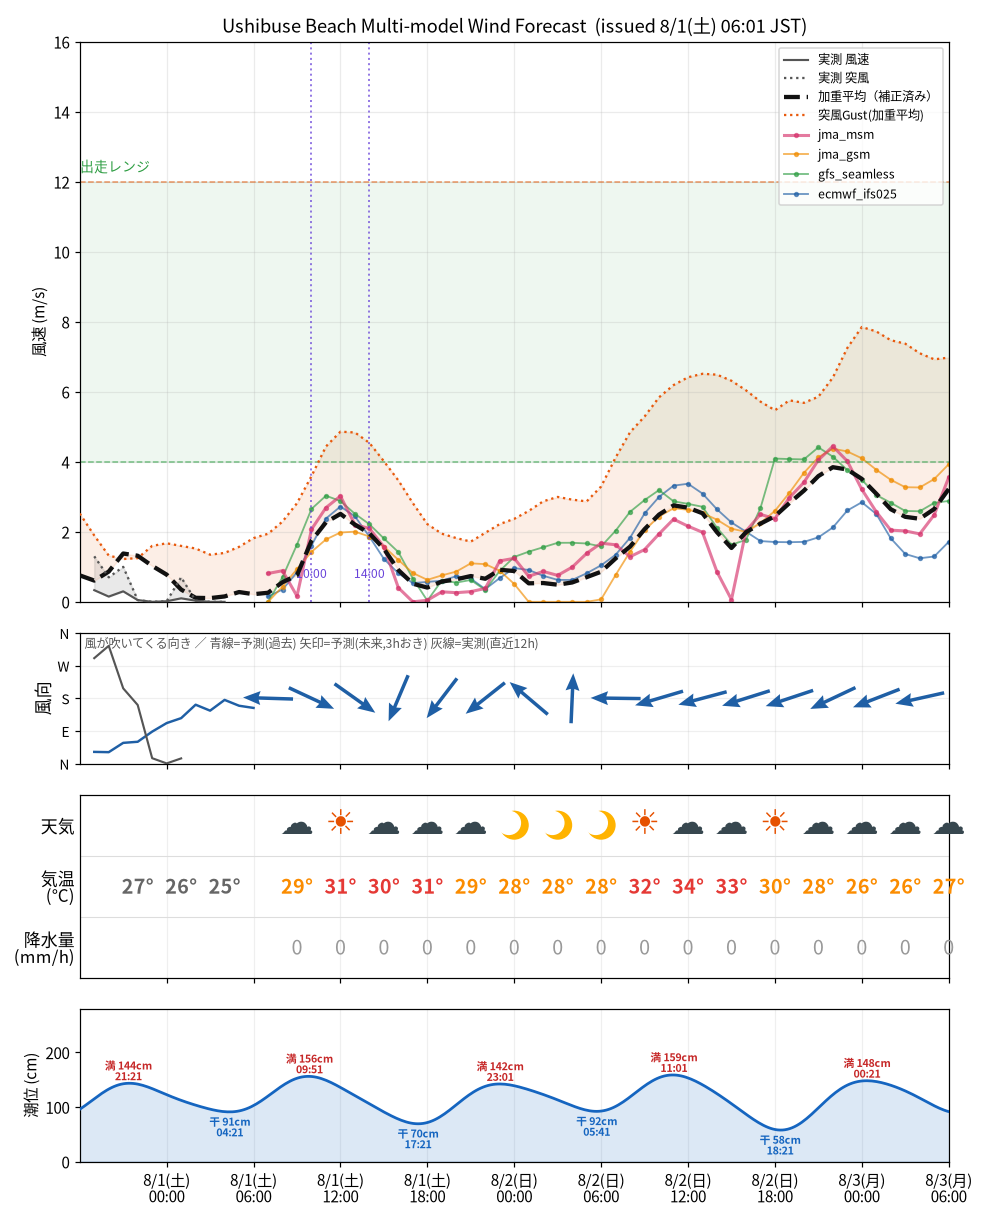
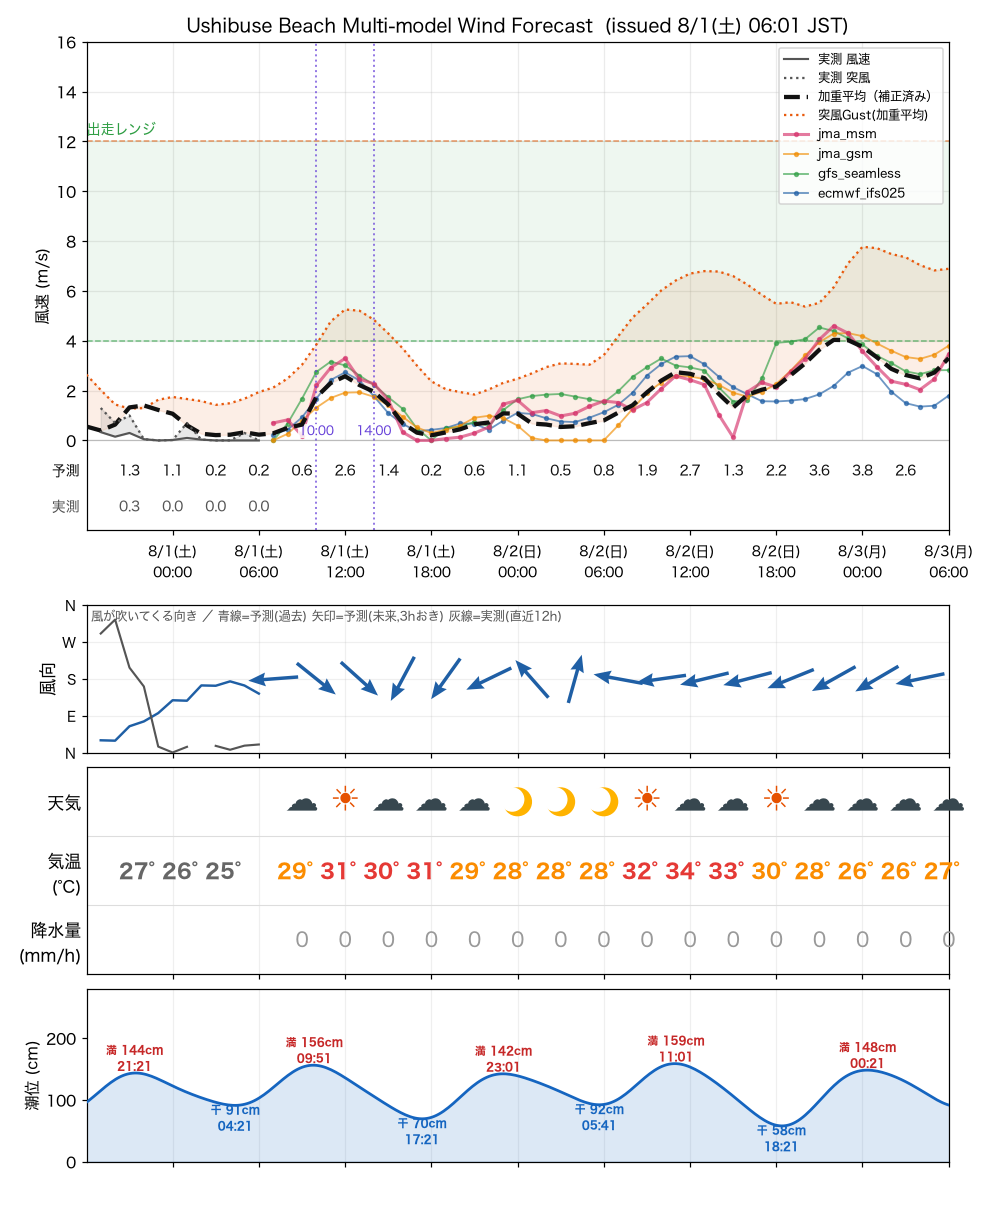
Move the date axis under panel 1 and print wind speeds there
The date labels now sit directly below the wind-speed panel instead of
under the tide panel, and panel 1 carries a numeric row at its bottom
with the 3-hourly ensemble forecast and the measured wind speed.

diff --git a/generate_dashboard.py b/generate_dashboard.py
@@ -270,6 +270,9 @@ def make_chart(conn, fa: str, path: str) -> None:
                     ms.append(None)
         else:
             ms = ms_raw
+            for ti, v in zip(t, ms_raw):
+                if v is not None:
+                    corrected_by_time.setdefault(ti, []).append((1.0, v))
 
         lw    = (2.0 if m == "jma_msm" else 1.2) if cal else (2.8 if m == "jma_msm" else 1.5)
         alpha = 0.65 if cal else 1.0
@@ -282,13 +285,14 @@ def make_chart(conn, fa: str, path: str) -> None:
 
     # 加重アンサンブル線（補正済み）
     ens_t, ens_ms = [], []
-    if cal and corrected_by_time:
+    if corrected_by_time:
         ens_t  = sorted(corrected_by_time.keys())
         ens_ms = [sum(w * v for w, v in corrected_by_time[ti]) /
                   sum(w for w, _ in corrected_by_time[ti])
                   for ti in ens_t]
-        ax1.plot(ens_t, ens_ms, color="#111", lw=2.8, ls="--",
-                 label="加重平均（補正済み）", zorder=6)
+        if cal:
+            ax1.plot(ens_t, ens_ms, color="#111", lw=2.8, ls="--",
+                     label="加重平均（補正済み）", zorder=6)
 
     # 突風の加重平均
     gust_by_time: dict = {}
@@ -340,7 +344,16 @@ def make_chart(conn, fa: str, path: str) -> None:
     ax1.axhline(pc.SAIL_MAX_MS, color="#e8590c", ls="--", lw=1, alpha=.6)
     ax1.text(chart_left, pc.SAIL_MAX_MS + 0.3, "出走レンジ", color="#2f9e44", fontsize=9)
     ax1.set_ylabel("風速 (m/s)")
-    ax1.set_ylim(0, max(pc.SAIL_MAX_MS + 2, 16))
+    # 0 より下に数値行(予測 / 実測)の帯を確保する。目盛は 0 以上のみ。
+    _y_top    = max(pc.SAIL_MAX_MS + 2, 16)
+    _row_pred = -_y_top * 0.075
+    _row_obs  = -_y_top * 0.165
+    _y_bottom = -_y_top * (0.225 if obs else 0.13)
+    ax1.set_ylim(_y_bottom, _y_top)
+    ax1.set_yticks(np.arange(0, _y_top + 0.01, 2))
+    ax1.set_axisbelow(True)
+    ax1.axhspan(_y_bottom, 0, facecolor="white", edgecolor="none", zorder=1.5)
+    ax1.axhline(0, color="#bbb", lw=0.8, zorder=1.6)
     _fa = datetime.fromisoformat(fa).astimezone(pc.JST)
     ax1.set_title(f"Ushibuse Beach Multi-model Wind Forecast  (issued {_fa.month}/{_fa.day}"
                   f"({_WD[_fa.weekday()]}) {_fa:%H:%M} JST)", fontsize=12)
@@ -365,9 +378,49 @@ def make_chart(conn, fa: str, path: str) -> None:
         x = _jst_naive(vtiso)
         hour = datetime.fromisoformat(vtiso).astimezone(pc.JST).hour
         ax1.axvline(x, color="#6741d9", ls=":", lw=1.3, alpha=.7)
-        ax1.text(x, 0.04, f"{hour:02d}:00", color="#6741d9",
-                 fontsize=8, ha="center", va="bottom",
-                 transform=ax1.get_xaxis_transform())
+        ax1.text(x, 0.15, f"{hour:02d}:00", color="#6741d9",
+                 fontsize=8, ha="center", va="bottom", zorder=3,
+                 bbox=dict(facecolor="white", edgecolor="none", pad=0.6, alpha=0.85))
+
+    # ── パネル1の一番下: 3時間おきの風速数値(予測=加重平均 / 実測) ──
+    _ens_map = {ti: v for ti, v in zip(ens_t, ens_ms)}
+    _obs_map = {o[0]: o[1] for o in obs} if obs else {}
+
+    def _at(dmap, ti, tol_min=30):
+        """ti に最も近い(±tol_min 分)値を返す。無ければ None。"""
+        best, bd = None, timedelta(minutes=tol_min)
+        for k, v in dmap.items():
+            if v is None:
+                continue
+            d = abs(k - ti)
+            if d <= bd:
+                best, bd = v, d
+        return best
+
+    ax1.text(-0.008, _row_pred, "予測", transform=ax1.get_yaxis_transform(),
+             ha="right", va="center", fontsize=9, color="#111")
+    if obs:
+        ax1.text(-0.008, _row_obs, "実測", transform=ax1.get_yaxis_transform(),
+                 ha="right", va="center", fontsize=9, color="#555")
+
+    _lt = chart_left.replace(minute=0, second=0, microsecond=0)
+    while _lt.hour % 3 != 0:
+        _lt += timedelta(hours=1)
+    while _lt <= chart_right - timedelta(minutes=30):
+        if _lt >= chart_left + timedelta(minutes=30):
+            pv = _at(_ens_map, _lt)
+            if pv is not None:
+                ax1.text(_lt, _row_pred, f"{pv:.1f}", ha="center", va="center",
+                         fontsize=9, color="#111", zorder=3)
+            ov = _at(_obs_map, _lt)
+            if obs and ov is not None:
+                ax1.text(_lt, _row_obs, f"{ov:.1f}", ha="center", va="center",
+                         fontsize=9, color="#555", zorder=3)
+        _lt += timedelta(hours=3)
+
+    # 日時軸はパネル1の下に置く(パネル4ではなく)
+    ax1.xaxis.set_major_formatter(FuncFormatter(_fmt_date))
+    ax1.tick_params(axis="x", labelbottom=True, labelsize=9)
 
     # ── パネル2: 風向（0-360°の折れ線, N/E/S/W/N） ─────────────────
     # 補正済み加重平均の風向(吹いてくる向き)を計算する
@@ -564,10 +617,25 @@ def make_chart(conn, fa: str, path: str) -> None:
     ax4.set_ylim(0, 280)
     ax4.set_ylabel("潮位 (cm)", fontsize=10)
     ax4.grid(alpha=0.2, axis="x")
-    ax4.xaxis.set_major_formatter(FuncFormatter(_fmt_date))
+    ax4.tick_params(axis="x", labelbottom=False)
 
     ax1.set_xlim(chart_left, chart_right)   # 共有軸: 実測窓(左)〜48h先(右)に固定
-    plt.tight_layout()
+    # 下端は干潮の注記(軸の外にはみ出す)用に少し空ける
+    plt.tight_layout(rect=(0, 0.028, 1, 1))
+
+    # パネル1の下に日時ラベルを入れた分、tight_layout が全段の隙間を等しく広げて
+    # しまう。パネル2〜4の隙間だけ詰め直し、空いた分を各段の高さに戻す。
+    _axes = (ax2, ax3, ax4)
+    _pos = [a.get_position() for a in _axes]
+    _gap = 0.012
+    _top, _bottom = _pos[0].y1, _pos[-1].y0
+    _tot = sum(p.height for p in _pos)
+    _avail = (_top - _bottom) - _gap * (len(_axes) - 1)
+    _y = _top
+    for _a, _p in zip(_axes, _pos):
+        _h = _avail * _p.height / _tot
+        _a.set_position([_p.x0, _y - _h, _p.width, _h])
+        _y -= _h + _gap
     plt.savefig(path, dpi=110)
     plt.close(fig)
 
